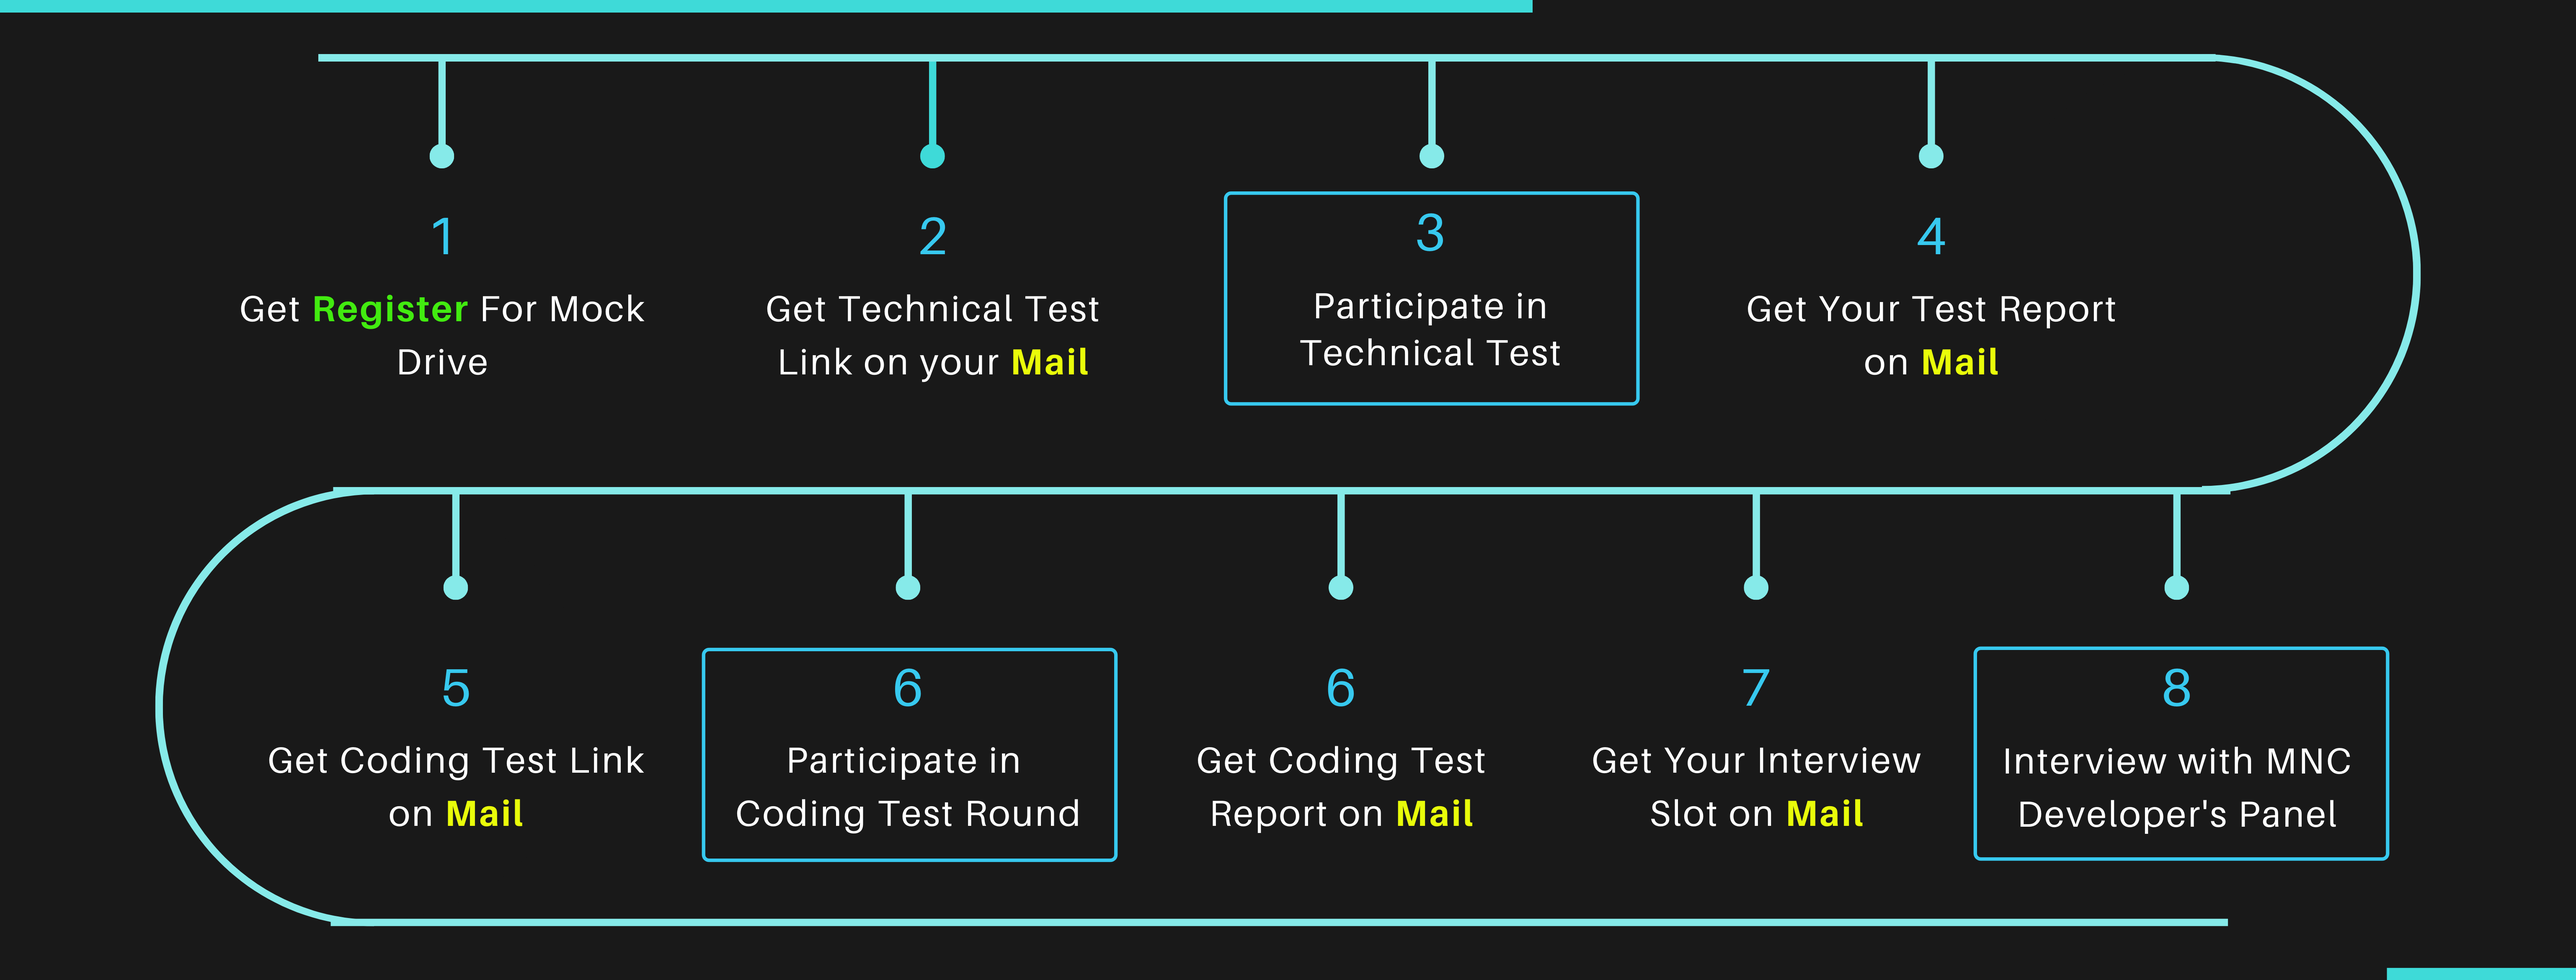
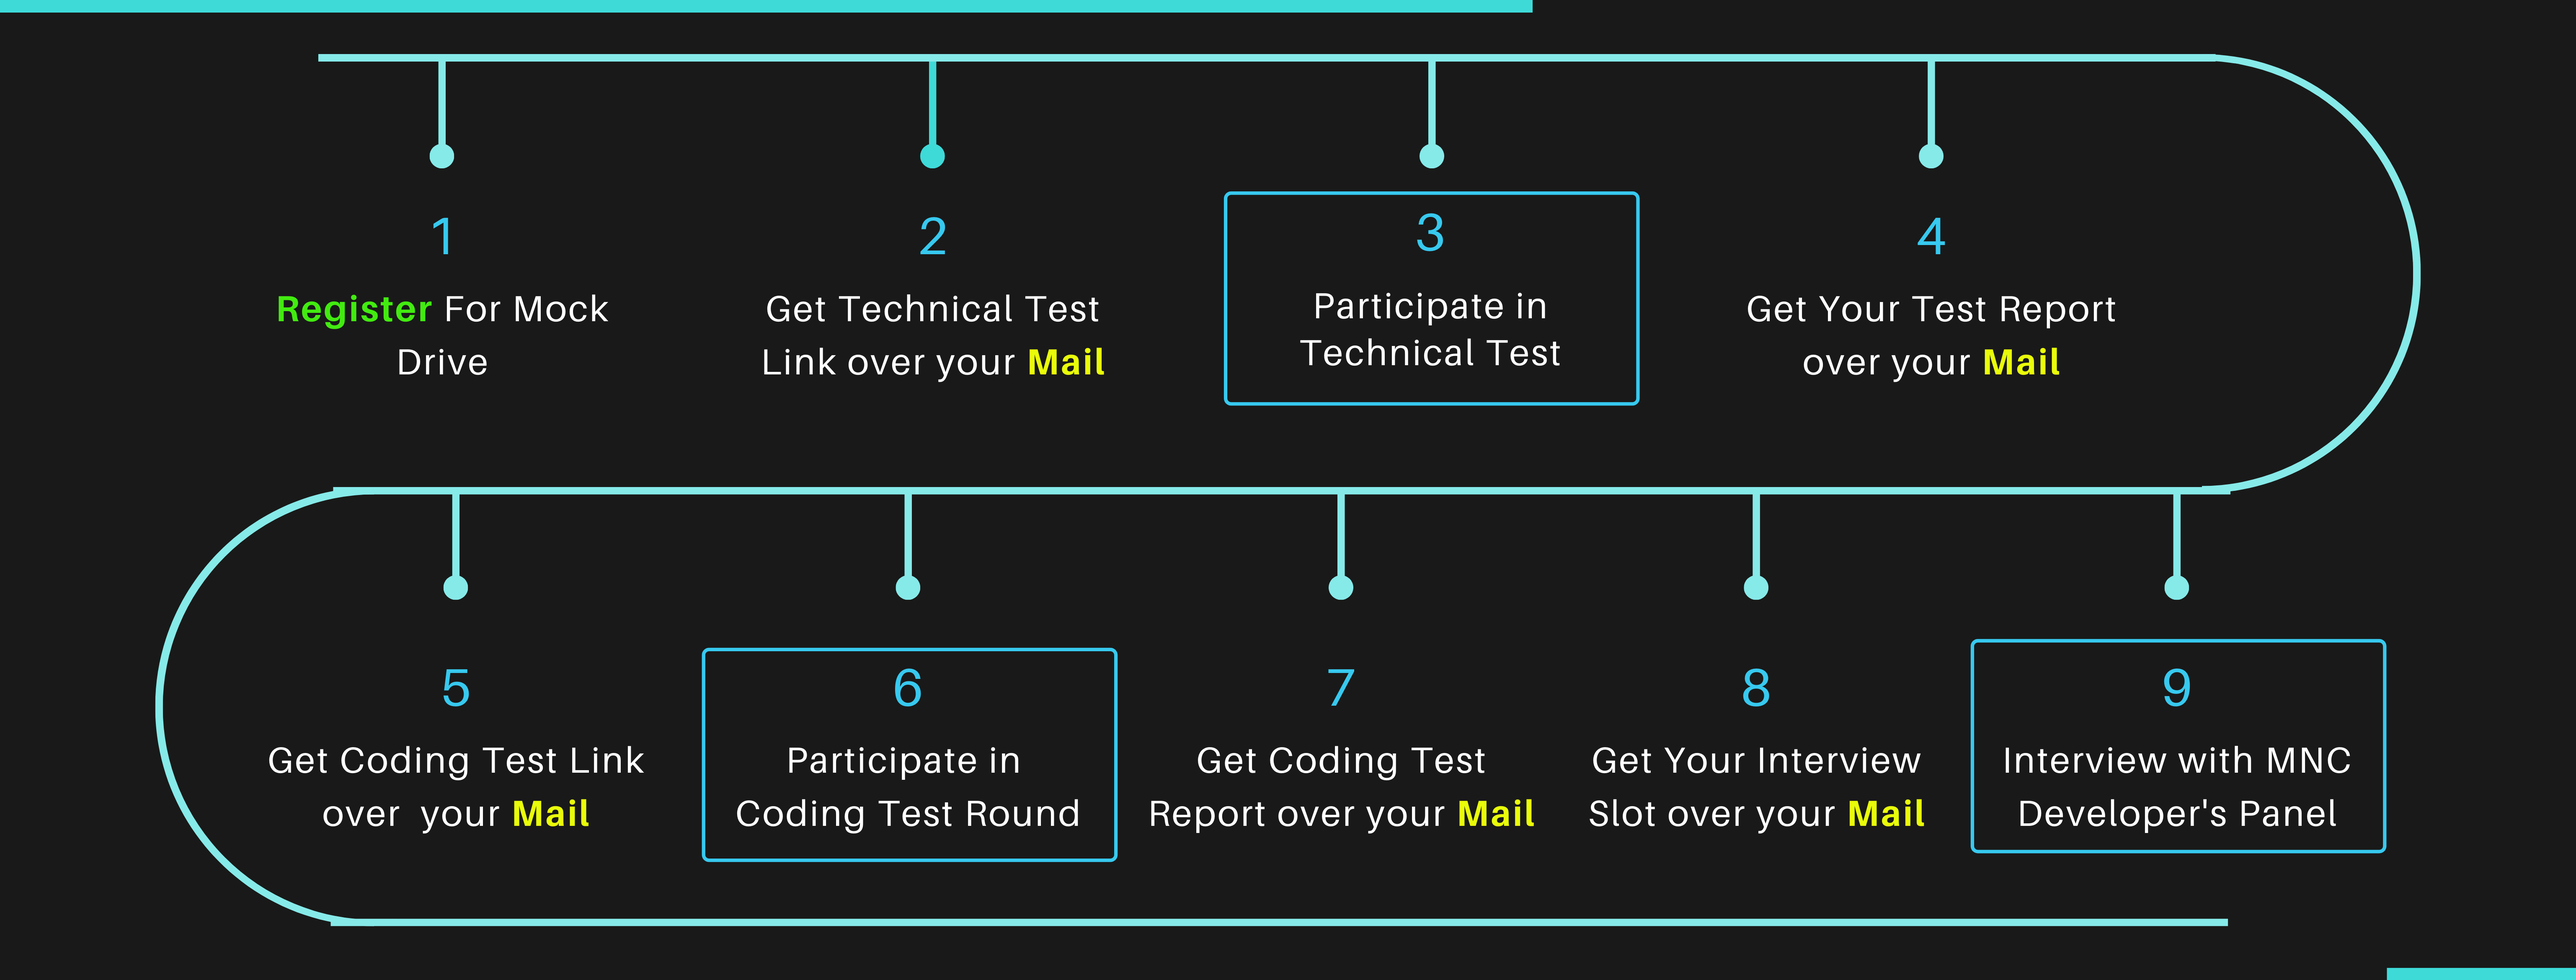
mock drive minor changes

diff --git a/src/components/main_component/aticles/mock_drive_article/MockDriveArticle.jsx b/src/components/main_component/aticles/mock_drive_article/MockDriveArticle.jsx
@@ -7,13 +7,13 @@ class MockDriveArticle extends Component {
     return (
       <>
         <div className="row" style={{ backgroundColor: "#191919" }}>
-          <div className="col-2">
+          <div className="col-md-2">
           </div>
-          <div className="col-8" style={{ backgroundColor: "#191919" }}>
-            <HeaderBannerSectionBlack imgsource="mocktestdrive.png" />
+          <div className="col-md-8 mb-5" style={{ backgroundColor: "#191919" }}>
+            <a href="http://bit.ly/datacodemockdrive"><HeaderBannerSectionBlack imgsource="mocktestdrive.png" /></a>
             <h1 className="mt-3" style={{ color: "yellow", fontSize: 40 }}>“ If a window of opportunity appears, don't pull down the shade ”</h1>
             <p style={{ color: "white" }}>Hey there!
-            As the placement season is near and you aspirants might be worried about the preparation needed for the placement in this pandemic.
+            As the placement time is arising and you aspirants may be worried about the preparation that is needed for the placement in this pandemic.
             </p>
             <p style={{ color: "yellow" }}>We know you must be having lots of query and doubts in your mind.</p>
             <ul style={{ color: "white" }}>
@@ -22,44 +22,31 @@ class MockDriveArticle extends Component {
               <li><b>When ?</b></li>
             </ul>
             <h2 style={{ color: "#37c9ef", textAlign: "center" }}><b>BUT DON'T WORRY!</b></h2>
-            <p style={{ color: "white" }}>"The Best way to prepare for an interview is to actually face a “Mock test drive and interview”.
-            Keeping this in mind,
-Datacode brings to you a great opportunity to put your step forward through an online mock placement drive to prepare for the placements.
-
-"</p>
+            <p style={{ color: "white" }}>"The Best way to prepare for an interview is to actually face a mock test drive and interview. Datacode brings to you a great opportunity to put your step forward through an online mock placement drive for beginners who are willing to prepare for the placements."</p>
             <hr style={{ backgroundColor: "#37c9ef", width: 120 }} />
             <h5 className="border-warning border-left pl-4" style={{ color: "yellow" }}>
-            Our aim behind this mock test drive is to prepare you and to make you ready to face the placements processes and to make you aware about the steps and the abilities that most MNCs expect in their candidates.
-This drive is designed to fully equip students with academic and strategic needs for all placement processes. It has incorporated essential elements required to clear the placement exams of various MNCs.
-
+              Our aim behind this mock test drive is to prepare and to make our learners ready to face the placements processes and to make them aware about the steps and  the abilities that most MNCs expect in the candidates.
+              The drive is designed to fully equip students with academic and strategic needs for all placement processes. It has incorporated essential elements required to clear the placement exams of various MNCs.
             </h5>
-            <p style={{ color: "white", marginTop: 35 }}>So why to wait? Register and Grab the chance to self analyze your knowledge, skills and abilities.  
-</p>
-            <p style={{ color: "white", marginTop: -16 }}>All you have to do is to visit the link below and register. Hurry up! Register now!
-</p>
-            <center><div className="btn btn-outline-warning mt-3 mb-3">Register Now</div></center>
+            <p style={{ color: "white", marginTop: 35 }}>So why to wait? Get up and Grab the chance to take self analysis of your knowledge, skills and abilities.</p>
+            <p style={{ color: "white", marginTop: -16 }}>All you have to do is to visit the link below and register. Hurry up! Grab the chance! Register now!</p>
+            <center><a href="http://bit.ly/datacodemockdrive"><div className="btn btn-outline-warning mt-3 mb-3">Register Now</div></a></center>
 
-            <p style={{ color: "white", marginTop: 35 }}>After registering on the link, you will be notified by mail and will be provided an online technical test link. After taking the test, We will provide you with a detailed analysis report, then you'll move forward to give a coding test, the language can be of your choice.</p>
-            <p style={{ color: "white", marginTop: 35 }}>After that, you will be provided with the analysis of the coding round and moving forward, an interview round will be scheduled for you where you will be directly interviewed by MNC developers.
-</p>
-            <p style={{ color: "#37c9ef", marginTop: 35 }}>The drive includes the following 3 phases:
-</p>
+            <p style={{ color: "white", marginTop: 35 }}>After registering on the link, you will be notified by mail and given an online technical test. We will provide you a detailed analysis report after which, you'll be moving forward to give a coding test (You can choose any programming language).</p>
+            <p style={{ color: "white", marginTop: 35 }}>You will be provided with the analysis of the coding round and moving forward, an interview round will be scheduled for you where you will be directly interviewed by MNC developers.</p>
+            <p style={{ color: "#37c9ef", marginTop: 35 }}>The drive includes the 3 phases that we are going to conduct.</p>
 
             <h6 style={{ color: "#37c9ef" }}>1. Technical Test :-</h6>
-            <p style={{ color: "white" }}>This round will include the questions about quantitative aptitude, logical reasoning and verbal ability. 
-Logical reasoning and aptitude tests are designed to measure the candidate’s ability to draw logical conclusions based on statements or arguments, and to identify the strengths and weaknesses of those arguments
-</p>
-            <p style={{ color: "white", marginTop: -16 }}> Use your knowledge and skill and solve some of the best interview and placement test questions asked by companies to see where your aptitude preparation stands.
-</p>
+            <p style={{ color: "white" }}>This round will include the questions about quantitative aptitude, logical reasoning and verbal ability. Logical reasoning aptitude tests are designed to measure the candidate’s ability to draw logical conclusions based on statements or arguments, and to identify the strengths and weaknesses of those arguments.</p>
+            <p style={{ color: "white", marginTop: -16 }}>Use your knowledge and skill and solve some of the best interview and placement test questions asked by companies to see where your aptitude preparation stands.</p>
             <h6 style={{ color: "#37c9ef" }}>2. Coding Round :-</h6>
-            <p style={{ color: "white" }}>     The most crucial step for the placement process is to analyse your ability of solving the competitive coding problems. This coding round will contain 2 coding problems that you need to solve. You are free to choose any programming language you are comfortable with.
-</p>
+            <p style={{ color: "white" }}> The most crucial step for the placement process is to analyse your ability of solving the competitive coding problems. This coding round will contain 2 coding problems that you need to solve. You are free to choose any programming language of your choice and interest.</p>
             <h6 style={{ color: "#37c9ef" }}>3. Interview Round :-</h6>
             <p style={{ color: "white" }}>Our interview round consists of a panel of expert software developers from well-known MNCs. There will be a virtual mock interview by our experts in which you will be asked some sort of technical concepts and on that basis you will be scored.</p>
             <p style={{ color: "white", marginTop: -16 }}>You will get the reviews about your performance and the suggestions you should follow for self improvement. This will be proved highly beneficial for you to learn from your mistakes and to be ready for future opportunities.</p>
-            <HeaderBannerSectionBlack className="mt-5" imgsource="mock_drive_flow.png" />
+            <HeaderBannerSectionBlack className="mt-5 mb-5" imgsource="mock_drive_flow.png" />
           </div>
-          <div className="col-2">
+          <div className="col-md-2">
 
           </div>
 
